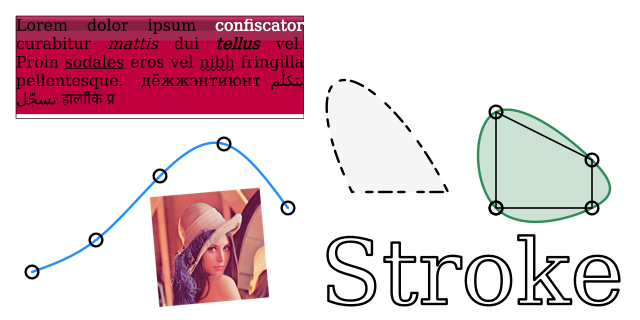
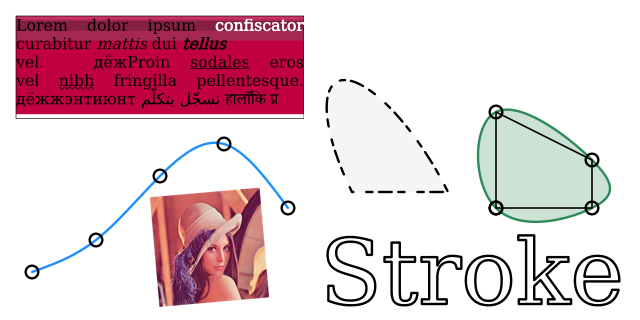
Use script itemizer for native Go HarfBuzz

Changed region(s): [[0.0, 0.125, 0.5, 0.3438]]

diff --git a/text/harfbuzz.go b/text/harfbuzz.go
@@ -4,6 +4,7 @@ package text
 
 import (
 	"bytes"
+	"unicode/utf8"
 
 	"github.com/benoitkugler/textlayout/fonts/truetype"
 	"github.com/benoitkugler/textlayout/harfbuzz"
@@ -85,8 +86,23 @@ func (s Shaper) Shape(text string, ppem uint16, direction Direction, script Scri
 
 // ScriptItemizer divides the string in parts for each different script.
 func ScriptItemizer(text string) []string {
-	// TODO: script itemizer for native Go HarfBuzz
-	return []string{text}
+	i := 0
+	items := []string{}
+	curScript := ScriptInvalid
+	for j := 0; j < len(text); {
+		r, n := utf8.DecodeRuneInString(text[j:])
+		script := Script(language.LookupScript(r))
+		if j == 0 || curScript == ScriptInherited || curScript == ScriptCommon {
+			curScript = script
+		} else if script != curScript && script != ScriptInherited && script != ScriptCommon {
+			items = append(items, text[i:j])
+			curScript = script
+			i = j
+		}
+		j += n
+	}
+	items = append(items, text[i:])
+	return items
 }
 
 // Direction is the text direction.
